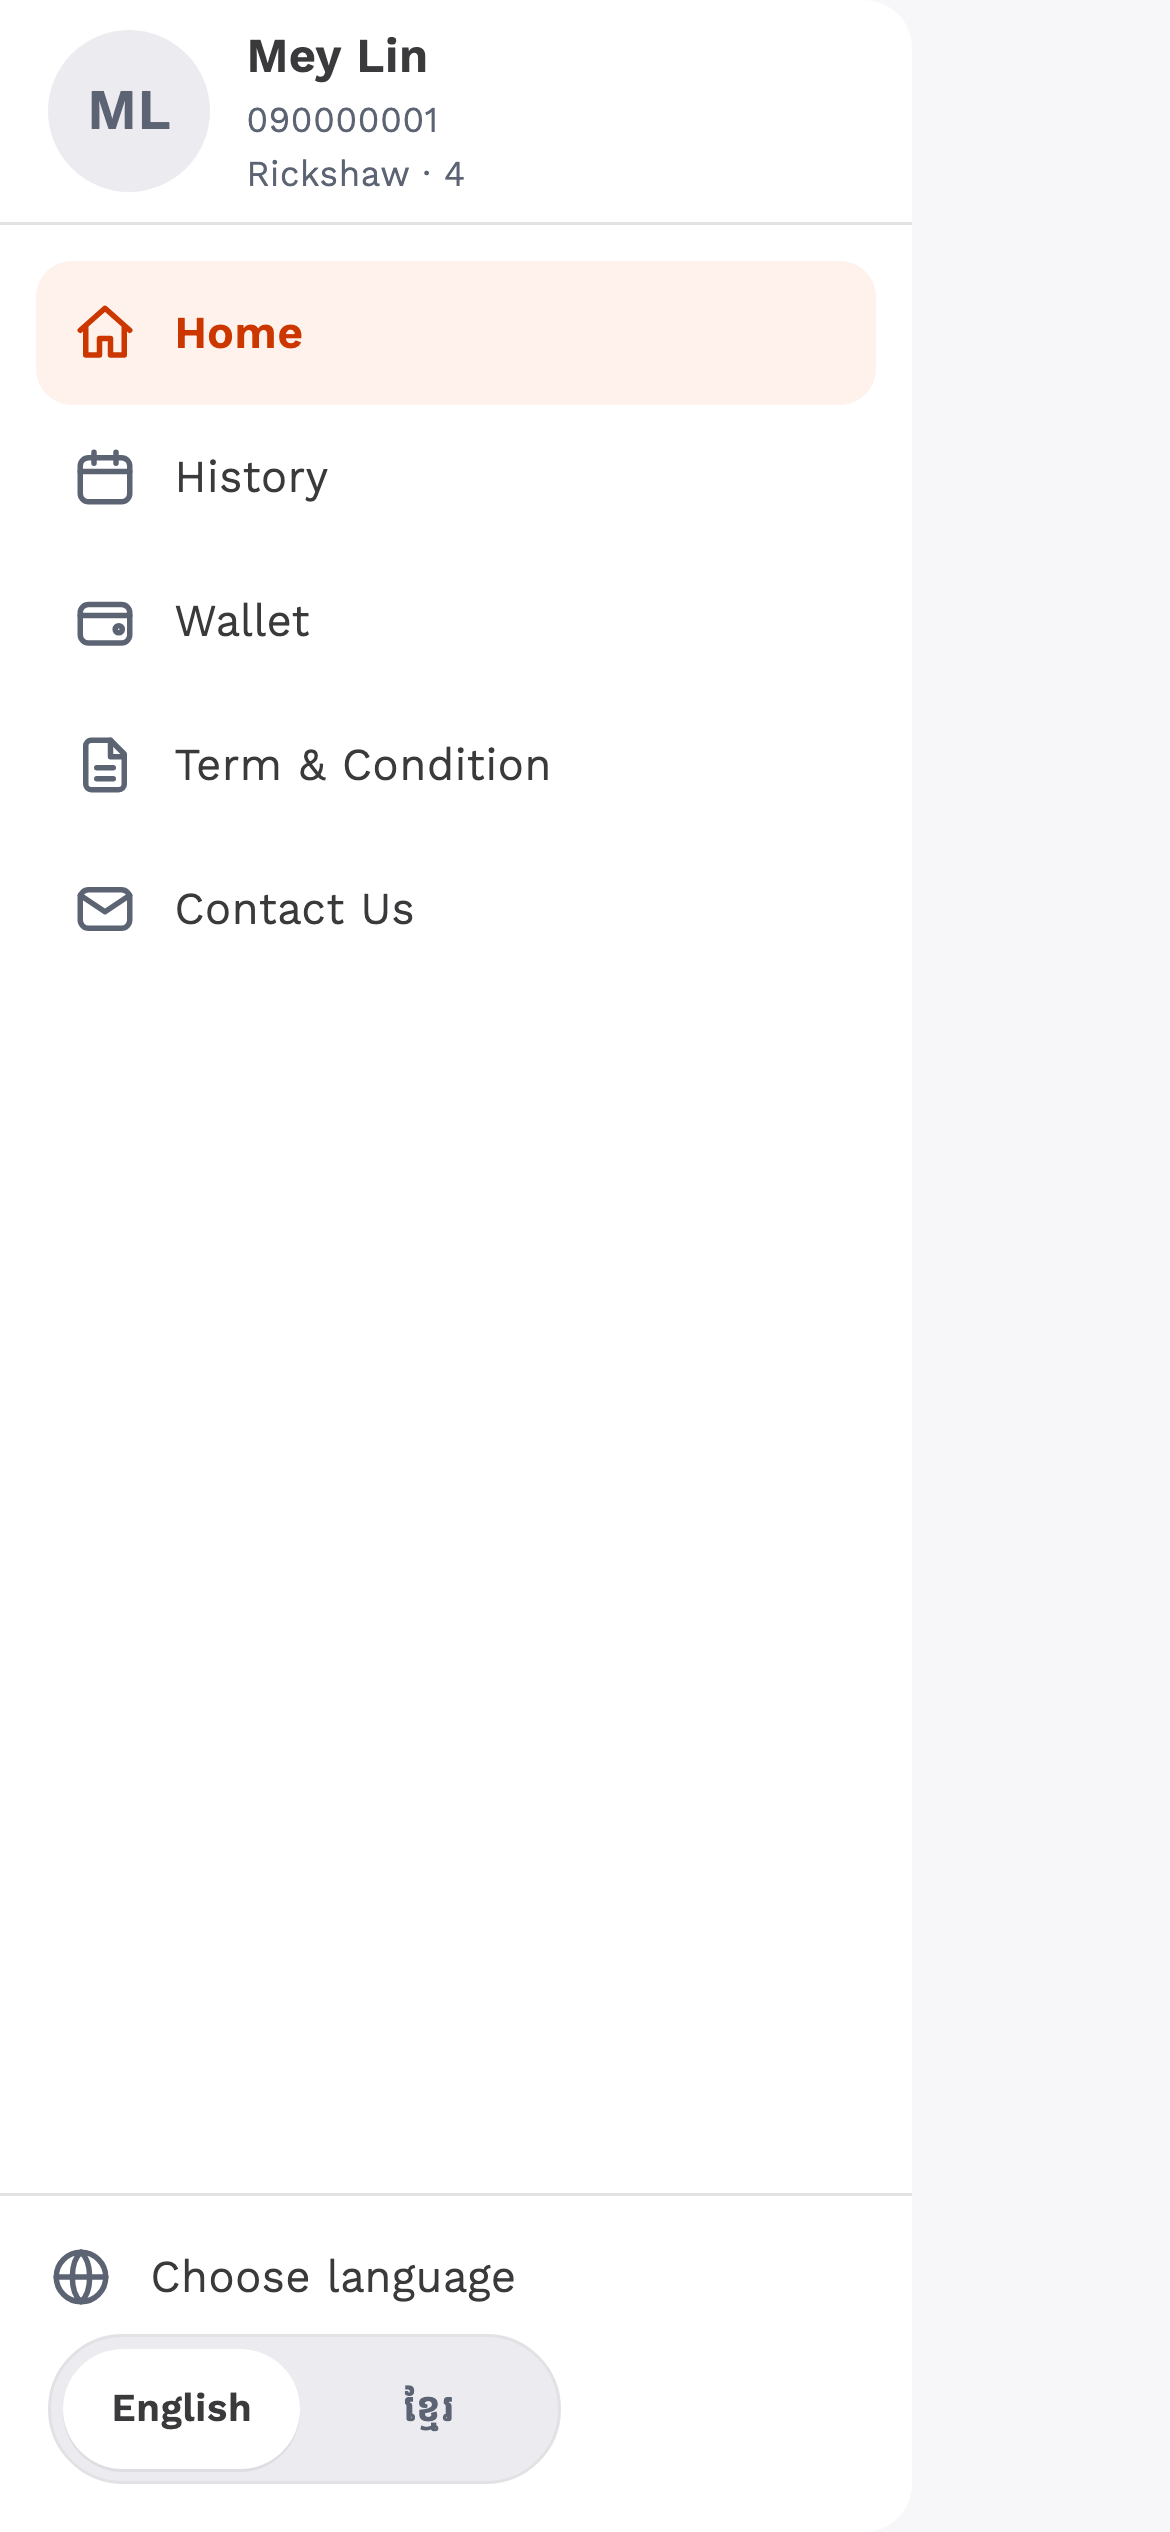
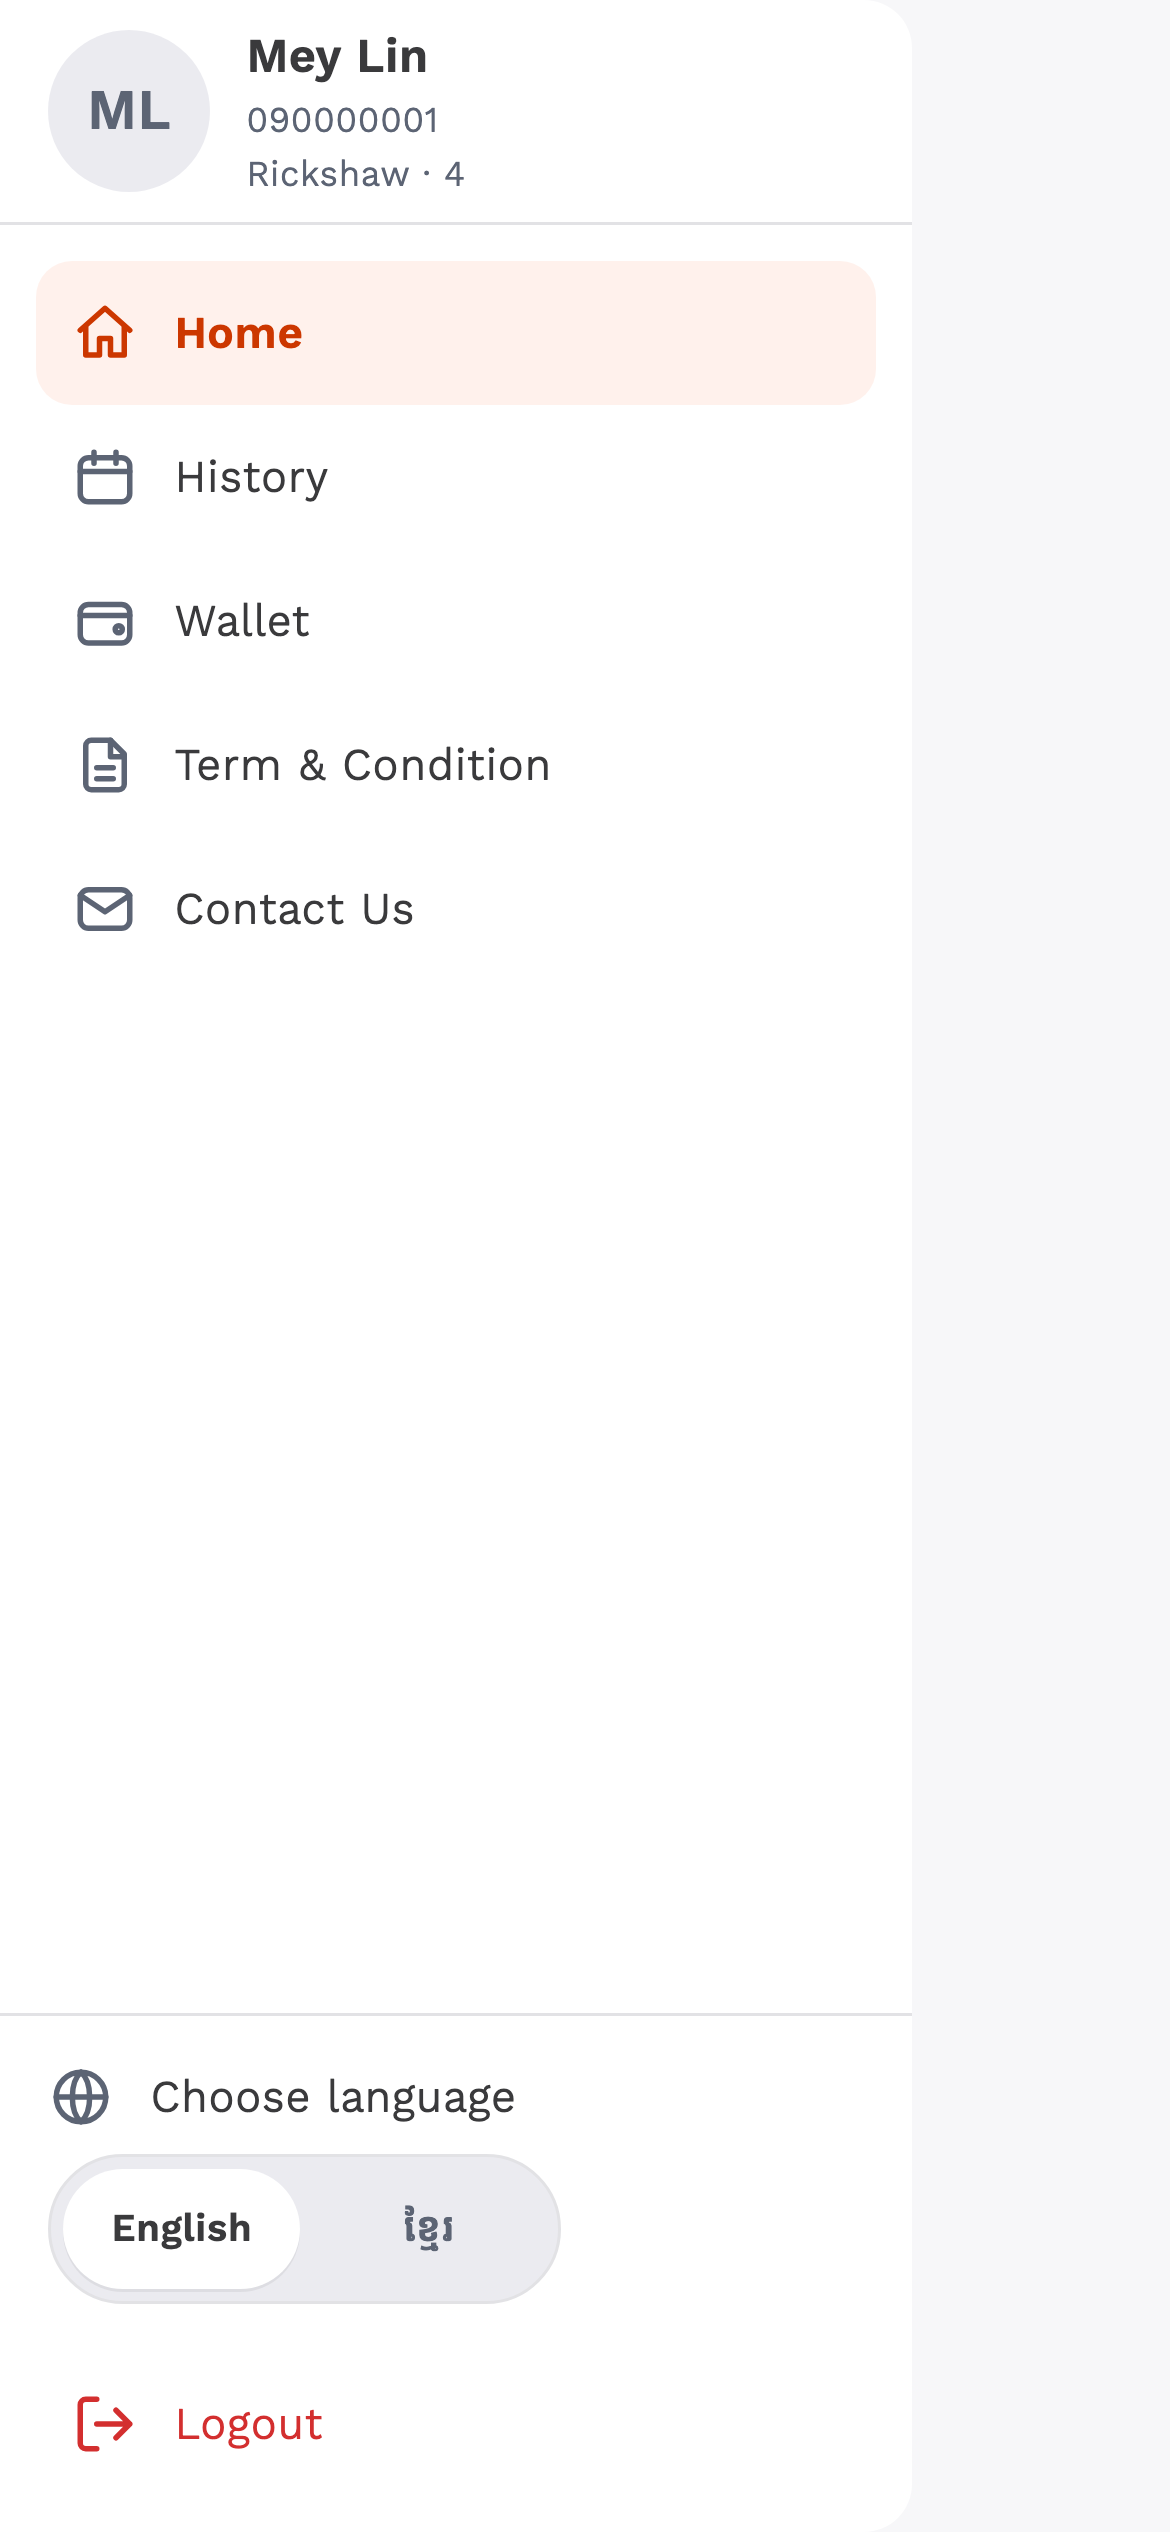
dev: the drawer signs the driver out; an ended session closes the socket (audit D-1, D-2)
Logout is a red row at the bottom of the drawer with a confirm dialog that
says GPS tracking will stop, the pattern DD-05 recorded for it. The old
AlertWidget.logout was unreachable and only removed the sign-in record.

AppLogic.signOut() sends set-status 0 (best effort, at most 5 s) and then
SessionService.endSession(): token, sign-in record, socket, online service,
GPS, back to login. A 401 takes the same path.

SessionService.clear() now disconnects the socket and removes
register_data. getToken() fell back to that record, so a refused token came
straight back on the next request or launch.

diff --git a/test/app/auto_online_test.dart b/test/app/auto_online_test.dart
@@ -1,6 +1,9 @@
+import 'dart:convert';
+
 import 'package:dio/dio.dart';
 import 'package:flutter_secure_storage/flutter_secure_storage.dart';
 import 'package:flutter_test/flutter_test.dart';
+import 'package:get/get.dart' hide Trans;
 import 'package:pu_taxi_driver/app/logic.dart';
 import 'package:pu_taxi_driver/app/state.dart';
 import 'package:pu_taxi_driver/core/network/api_client.dart';
@@ -12,6 +15,7 @@ import 'package:pu_taxi_driver/presentation/screens/home/data/datasource/home_da
 import 'package:pu_taxi_driver/presentation/screens/home/data/repository/home_repository.dart';
 import 'package:pu_taxi_driver/services/online_service.dart';
 import 'package:pu_taxi_driver/services/session_service.dart';
+import 'package:shared_preferences/shared_preferences.dart';
 
 /// DD-53 — the app puts the driver online by itself, once per sign-in, when
 /// the account may work, the server's status has been read and the phone
@@ -86,6 +90,8 @@ class _Service extends OnlineService {
 
 void main() {
   TestWidgetsFlutterBinding.ensureInitialized();
+  // A sign-out ends on `Get.offAllNamed(login)`; there is no navigator here.
+  Get.testMode = true;
 
   late _Server server;
   late _Service service;
@@ -95,6 +101,7 @@ void main() {
 
   setUp(() {
     FlutterSecureStorage.setMockInitialValues(<String, String>{});
+    SharedPreferences.setMockInitialValues(<String, Object>{});
     server = _Server();
     service = _Service();
     messages = <String>[];
@@ -307,6 +314,60 @@ void main() {
 
     expect(app.state.isOnline.value, isTrue);
     expect(server.setStatusCalls, <int>[1, 0, 1]);
+  });
+
+  group('signing out (audit D-1, D-2)', () {
+    /// What OTP sign-in stores: the sign-in record, token inside.
+    void signedIn(String token) => SharedPreferences.setMockInitialValues(
+          <String, Object>{
+            'register_data': jsonEncode(<String, dynamic>{
+              'data': <String, dynamic>{'token': token},
+            }),
+          },
+        );
+
+    test('goes offline on the server, then ends the session', () async {
+      signedIn('driver-token');
+      await launch();
+      expect(await SessionService.instance.getToken(), 'driver-token');
+
+      await app.signOut();
+      await pumpEventQueue();
+
+      expect(server.setStatusCalls, <int>[1, 0]);
+      expect(app.state.isOnline.value, isFalse);
+      expect(service.calls, <String>['start', 'stop']);
+      expect(await SessionService.instance.getToken(), isNull);
+    });
+
+    test('also tells the server for a driver the app has as offline',
+        () async {
+      await launch(location: false);
+
+      await app.signOut();
+
+      expect(server.setStatusCalls, <int>[0]);
+    });
+
+    test('the next driver on the phone starts clean', () async {
+      await launch();
+      await app.signOut();
+      server.available = 0;
+      await launch();
+
+      expect(app.state.isOnline.value, isTrue);
+      expect(server.setStatusCalls, <int>[1, 0, 1]);
+    });
+
+    test('an ended session\'s token does not come back from the sign-in record',
+        () async {
+      signedIn('refused-token');
+      expect(await SessionService.instance.getToken(), 'refused-token');
+
+      await SessionService.instance.clear();
+
+      expect(await SessionService.instance.getToken(), isNull);
+    });
   });
 
   test('a sign-out forgets the last driver\'s approval until it is checked',

diff --git a/lib/presentation/screens/drawer/widgets/driver_drawer.dart b/lib/presentation/screens/drawer/widgets/driver_drawer.dart
@@ -10,18 +10,21 @@ import 'package:pu_taxi_driver/presentation/widgets/language_segment.dart';
 ///
 /// Destinations are exactly the ones the app has today. The prototype's drawer
 /// also offers Referral, Announcements, a sound toggle, a second online
-/// toggle and Logout; each is excluded for a recorded reason (`DD-05`,
-/// `DD-06`, `DD-22`) — three have no backend, one duplicates the app bar, and
-/// logout is a product decision that is still open.
+/// toggle and Logout. Logout is in (audit D-1, 2026-10-28), in the pattern
+/// `DD-05` recorded for it: a red row at the bottom and a confirm dialog. The
+/// rest are excluded for a recorded reason (`DD-05`, `DD-06`, `DD-22`) — they
+/// have no backend or duplicate the app bar.
 class DriverDrawer extends StatelessWidget {
   const DriverDrawer({
     super.key,
     required this.activeTab,
     required this.onSelect,
+    required this.onLogout,
   });
 
   final DrawerTab activeTab;
   final ValueChanged<DrawerTab> onSelect;
+  final VoidCallback onLogout;
 
   static const List<(DrawerTab, String, String)> _items =
       <(DrawerTab, String, String)>[
@@ -97,6 +100,21 @@ class DriverDrawer extends StatelessWidget {
                 ],
               ),
             ),
+            Padding(
+              padding: const EdgeInsets.fromLTRB(
+                Insets.s12,
+                0,
+                Insets.s12,
+                Insets.s12,
+              ),
+              child: _DrawerRow(
+                icon: DsIcons.logout,
+                label: 'LOGOUT'.tr(),
+                selected: false,
+                danger: true,
+                onTap: onLogout,
+              ),
+            ),
           ],
         ),
       ),
@@ -110,6 +128,7 @@ class _DrawerRow extends StatelessWidget {
     required this.label,
     required this.selected,
     required this.onTap,
+    this.danger = false,
   });
 
   final String icon;
@@ -117,10 +136,17 @@ class _DrawerRow extends StatelessWidget {
   final bool selected;
   final VoidCallback onTap;
 
+  /// Logout: icon and label in the danger colour.
+  final bool danger;
+
   @override
   Widget build(BuildContext context) {
     final TaarraaColors c = context.colors;
-    final Color content = selected ? c.brandText : c.textSecondary;
+    final Color content = danger
+        ? c.danger
+        : selected
+            ? c.brandText
+            : c.textSecondary;
 
     return Semantics(
       button: true,
@@ -146,7 +172,11 @@ class _DrawerRow extends StatelessWidget {
                   child: Text(
                     label,
                     style: context.texts.body.copyWith(
-                      color: selected ? c.brandText : c.textPrimary,
+                      color: danger
+                          ? c.danger
+                          : selected
+                              ? c.brandText
+                              : c.textPrimary,
                       fontWeight:
                           selected ? FontWeights.bold : FontWeights.regular,
                     ),

diff --git a/lib/services/session_service.dart b/lib/services/session_service.dart
@@ -4,8 +4,10 @@ import 'package:get/get.dart' hide Trans;
 import 'package:pu_taxi_driver/routes/app_routes.dart';
 import 'package:pu_taxi_driver/core/storage/token_store.dart';
 import 'package:pu_taxi_driver/core/storage/get_storages.dart';
+import 'package:pu_taxi_driver/core/storage/remove_storage.dart';
 import 'package:pu_taxi_driver/services/location_service.dart';
 import 'package:pu_taxi_driver/services/online_service.dart';
+import 'package:pu_taxi_driver/services/socket_service.dart';
 
 class SessionService {
   SessionService._(this._tokenStore);
@@ -53,14 +55,25 @@ class SessionService {
     // DD-58: nobody is online without a session, and the service holds the
     // token that has just ended.
     unawaited(OnlineService.instance.stop());
+    // Audit D-2: the socket is registered as this driver. Left open, ride
+    // requests for them keep arriving on a phone that has signed out.
+    DriverSocketService().disconnectSocket();
     await _tokenStore.clear();
+    // The sign-in record carries the token too, and [getToken] falls back to
+    // it: left in place, the very next request — or the next launch — read
+    // the ended session's token back and signed the driver in again.
+    await StorageRemove.removeDriverData();
   }
 
-  Future<void> handleUnauthorized() async {
+  /// Ends the session and returns to sign-in: for a refused token (401) and
+  /// for the driver signing out (audit D-1, `AppLogic.signOut`).
+  Future<void> endSession() async {
     await clear();
     LocationService.instance.stop();
     Get.offAllNamed(AppRoutes.login);
   }
+
+  Future<void> handleUnauthorized() => endSession();
 
   Future<String?> _readLegacyToken() async {
     final driverData = await StorageGet.getDriverData();

diff --git a/lib/app/alert_widget.dart b/lib/app/alert_widget.dart
@@ -1,7 +1,5 @@
 import 'package:easy_localization/easy_localization.dart';
-import 'package:pu_taxi_driver/routes/app_routes.dart';
-import 'package:pu_taxi_driver/core/storage/remove_storage.dart';
-import 'package:pu_taxi_driver/services/location_service.dart';
+import 'package:pu_taxi_driver/app/logic.dart';
 import 'package:flutter/material.dart';
 import 'package:flutter_easyloading/flutter_easyloading.dart';
 import 'package:get/get.dart' hide Trans;
@@ -12,18 +10,21 @@ import 'package:pu_taxi_driver/presentation/widgets/process_book_dialog_widget.d
 import '../presentation/widgets/yesno_dialog_widget.dart';
 
 class AlertWidget {
-  void logout(BuildContext context) async {
+  /// Audit D-1: the drawer's logout row. This used to remove the sign-in
+  /// record and nothing else, from a row nobody could reach: the token, the
+  /// socket and the online service outlived it, and the next launch signed
+  /// the driver straight back in. [AppLogic.signOut] ends all of it.
+  void logout(BuildContext context) {
     try {
       showYesNoCustomDialog(
           context: context,
           title: "LOGOUT".tr(),
           description: "ARE_YOU_LOGOUT".tr(),
-          onYes: () async {
-            EasyLoading.show();
-            await StorageRemove.removeDriverData();
-            LocationService.instance.stop();
-            Get.offAllNamed(AppRoutes.login);
-            EasyLoading.dismiss();
+          yesLabel: "LOGOUT".tr(),
+          noLabel: "STAY".tr(),
+          onYes: () {
+            Navigator.of(context).pop();
+            Get.find<AppLogic>().signOut();
           });
     } catch (e) {
       Logger().e("message: $e");

diff --git a/lib/app/logic.dart b/lib/app/logic.dart
@@ -188,6 +188,31 @@ class AppLogic extends GetxController {
     await _setOnline(turnOn, quiet: false);
   }
 
+  /// How long a sign-out waits for `set-status` before ending the session
+  /// anyway. The client's own timeout is a minute.
+  static const Duration signOutGrace = Duration(seconds: 5);
+
+  /// Audit D-1: the driver signs out from the drawer.
+  ///
+  /// Offline on the server first, while the token still works: otherwise the
+  /// server goes on offering rides to a phone nobody is signed in on. That
+  /// call is best effort — a sign-out never fails, or waits long, because of
+  /// the network. Then the session ends ([SessionService.endSession]): token,
+  /// sign-in record, socket, online service and GPS, and back to sign-in.
+  Future<void> signOut() async {
+    _showBusy();
+    try {
+      await _repository
+          .setStatus(0)
+          .then<void>((_) {})
+          .timeout(signOutGrace, onTimeout: () {});
+    } finally {
+      _hideBusy();
+    }
+    state.isOnline.value = false;
+    await _session.endSession();
+  }
+
   /// [quiet] is the app going online by itself: no overlay over the home,
   /// the status card just changes. A failure is said either way — the
   /// server's own words when it sent some — because a switch that falls

diff --git a/lib/presentation/widgets/ds/ds_icons.dart b/lib/presentation/widgets/ds/ds_icons.dart
@@ -7,8 +7,9 @@ import 'package:pu_taxi_driver/core/theme/tokens.dart';
 /// 24×24, stroke 2, round caps and joins (`docs/ux-redesign/02-design-system.md
 /// §6`), extracted from the prototype's inline sprite. Only the icons the
 /// redesign actually uses were extracted: the prototype also ships rating,
-/// referral, sound and logout glyphs, and those features are not adopted
-/// (`DD-05`, `DD-22`, `DD-31`), so bundling them would be dead assets.
+/// referral and sound glyphs, and those features are not adopted
+/// (`DD-22`, `DD-31`), so bundling them would be dead assets. Logout's glyph
+/// came in with logout itself (audit D-1, 2026-10-28).
 ///
 /// Rendered through the existing `flutter_svg` dependency — no new package.
 class DsIcons {
@@ -31,6 +32,7 @@ class DsIcons {
   static const String mail = '$_base/mail.svg';
   static const String globe = '$_base/globe.svg';
   static const String bell = '$_base/bell.svg';
+  static const String logout = '$_base/logout.svg';
 
   // Trip.
   static const String car = '$_base/car.svg';

diff --git a/lib/presentation/screens/drawer/view.dart b/lib/presentation/screens/drawer/view.dart
@@ -1,6 +1,7 @@
 import 'package:easy_localization/easy_localization.dart';
 import 'package:flutter/material.dart';
 import 'package:get/get.dart' hide Trans;
+import 'package:pu_taxi_driver/app/alert_widget.dart';
 import 'package:pu_taxi_driver/core/theme/tokens.dart';
 import 'package:pu_taxi_driver/presentation/screens/announcement/view.dart';
 import 'package:pu_taxi_driver/presentation/screens/contact_us/view.dart';
@@ -116,6 +117,10 @@ class DrawerScreen extends StatelessWidget {
           onSelect: (DrawerTab tab) {
             Navigator.pop(context);
             logic.selectTab(tab);
+          },
+          onLogout: () {
+            Navigator.pop(context);
+            AlertWidget().logout(context);
           },
         ),
       ),

diff --git a/test/a11y/guidelines_test.dart b/test/a11y/guidelines_test.dart
@@ -146,7 +146,8 @@ final Map<String, (Widget Function(), bool)> _surfaces =
   'register': (() => const RegisterPage(), true),
   'drawer': (
     () => Scaffold(
-          body: DriverDrawer(activeTab: DrawerTab.home, onSelect: (_) {}),
+          body: DriverDrawer(
+              activeTab: DrawerTab.home, onSelect: (_) {}, onLogout: () {}),
         ),
     true
   ),

diff --git a/test/qa/visual_qa_test.dart b/test/qa/visual_qa_test.dart
@@ -234,7 +234,8 @@ final List<_SurfaceDef> _surfaces = <_SurfaceDef>[
   (
     name: 'S05 drawer',
     build: () => Scaffold(
-          body: DriverDrawer(activeTab: DrawerTab.home, onSelect: (_) {}),
+          body: DriverDrawer(
+              activeTab: DrawerTab.home, onSelect: (_) {}, onLogout: () {}),
         ),
     page: true
   ),
